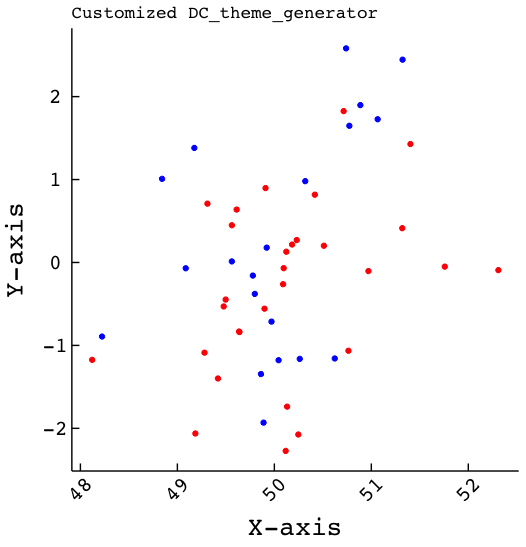
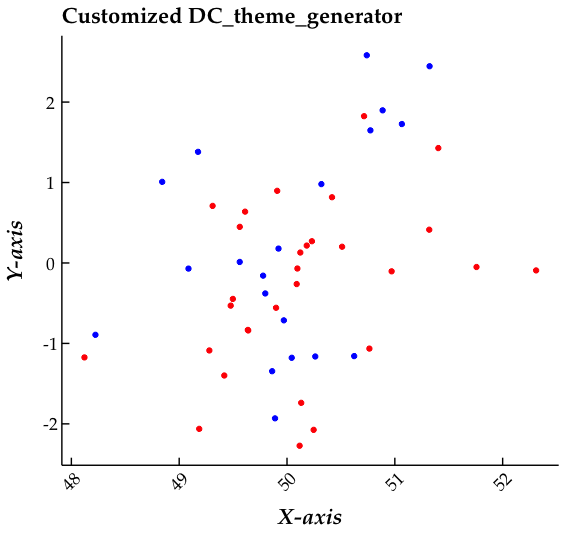
update description

diff --git a/README.md b/README.md
@@ -17,7 +17,7 @@ I found myself writing these ```ggplot2::theme()``` objects everytime I wanted t
 ## Using DC_theme_generator
 
 ```R
-source("https://gitlab.utu.fi/deecha/ggplot_themes/-/raw/master/DC_theme_generator.R")
+source('https://raw.githubusercontent.com/dchakro/ggplot_themes/master/DC_theme_generator.R')
 
 customtheme <- DC_theme_generator(type='L')
 ggplot()+geom_point()+customtheme
@@ -28,17 +28,18 @@ More detailed usage instructions along with an example can be found in the R scr
 Here is an example tweaking some of the defaults:
 
 ```R
-source("https://gitlab.utu.fi/deecha/ggplot_themes/-/raw/master/DC_theme_generator.R")
+source('https://raw.githubusercontent.com/dchakro/ggplot_themes/master/DC_theme_generator.R')
 customtheme <- DC_theme_generator(type = 'L',
                                   legend = 'F',
-                                  ticks = 'out',
+                                  ticks = 'in',
                                   x.axis.angle = 45,
                                   hjust = 0.5,
                                   vjust = 0.5,
-                                  fontsize.cex = 1.8,
-                                  fontfamily = 'mono')
+                                  fontsize.cex = 1.5,
+                                  fontfamily = 'Palatino',
+                                  ax.fontstyle = "bold.italic")
 
-ggplot(data = dat, aes(x=X, y=Y, color=Class)) + geom_point() + scale_color_manual(values=c("red","blue")) + xlab("X-axis") + ylab("Y-axis") + ggtitle("Customized DC_theme_generator") + customtheme
+ggplot(data = dat, aes(x=X,y=Y,color=Class)) + geom_point() + scale_color_manual(values=c("red","blue")) + xlab("X-axis") + ylab("Y-axis") + ggtitle("Customized DC_theme_generator") + customtheme
 ```
 
 The above theme results in a canvas like this:
